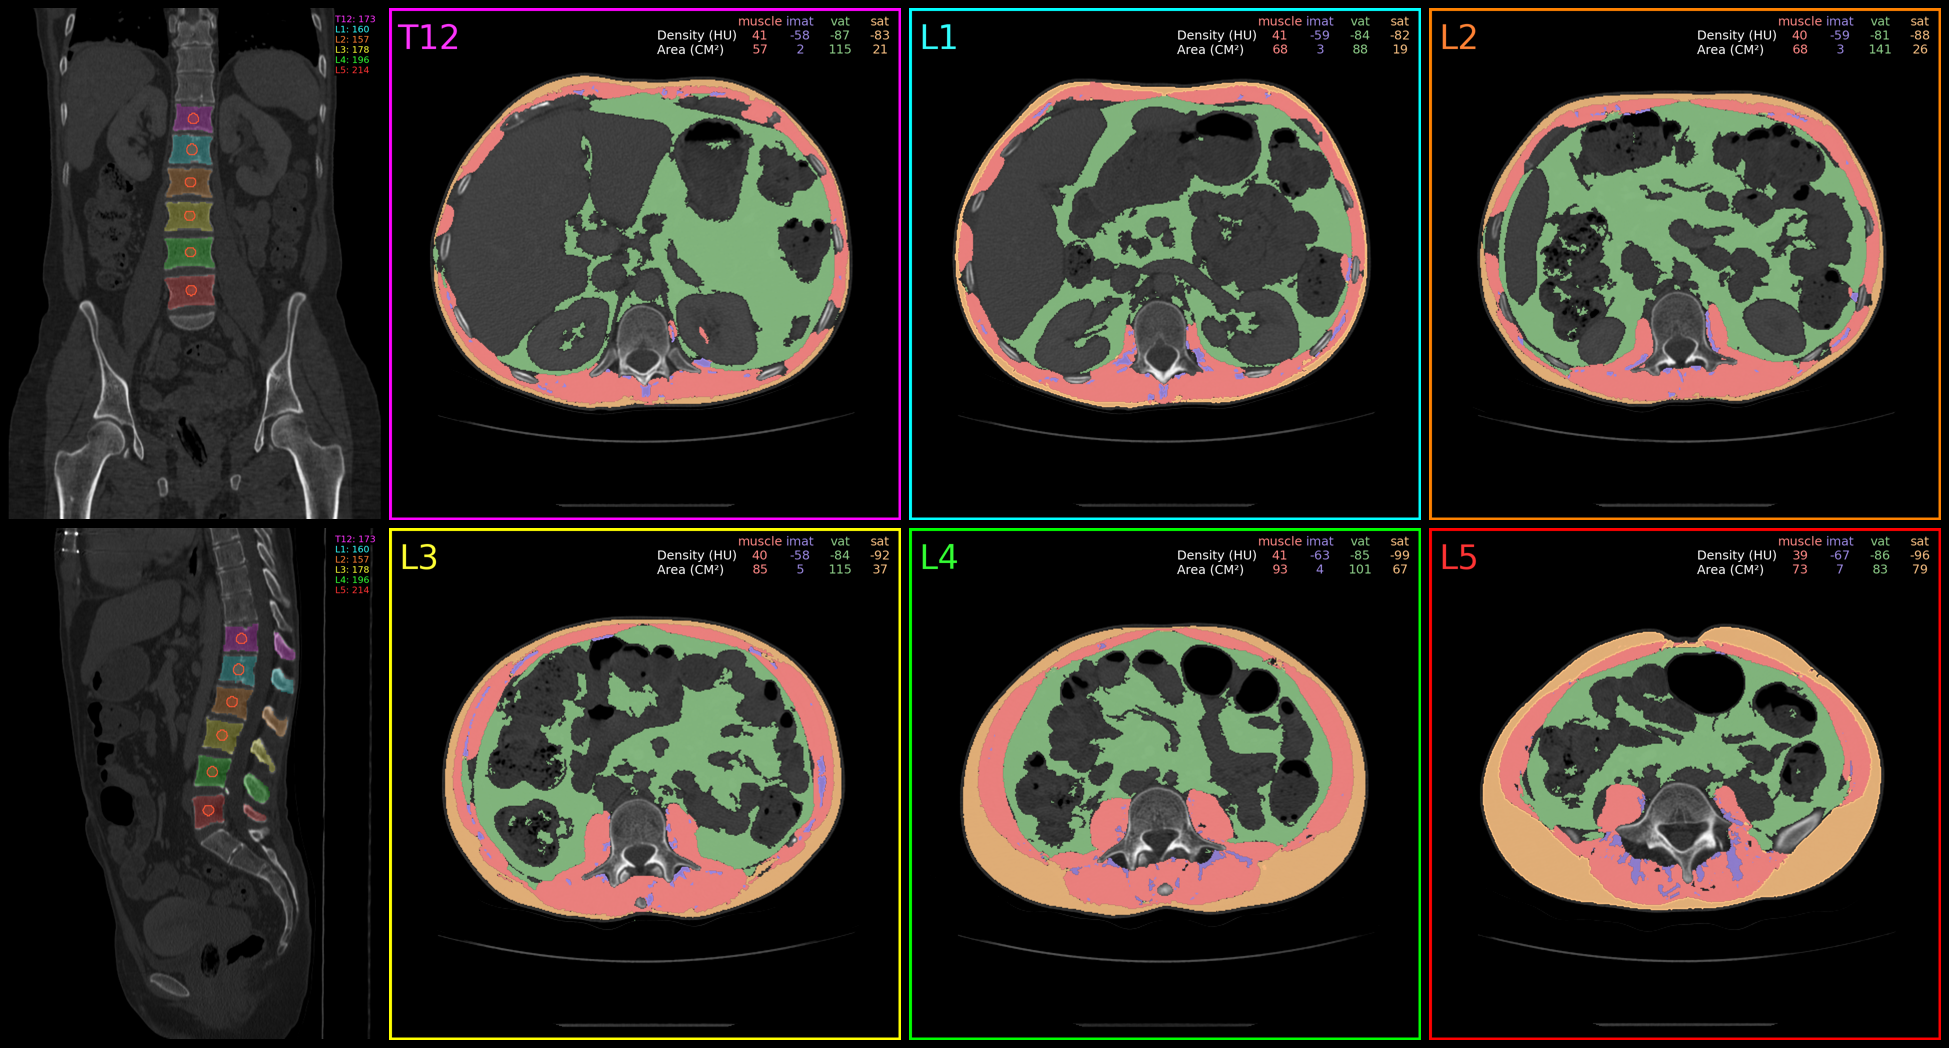
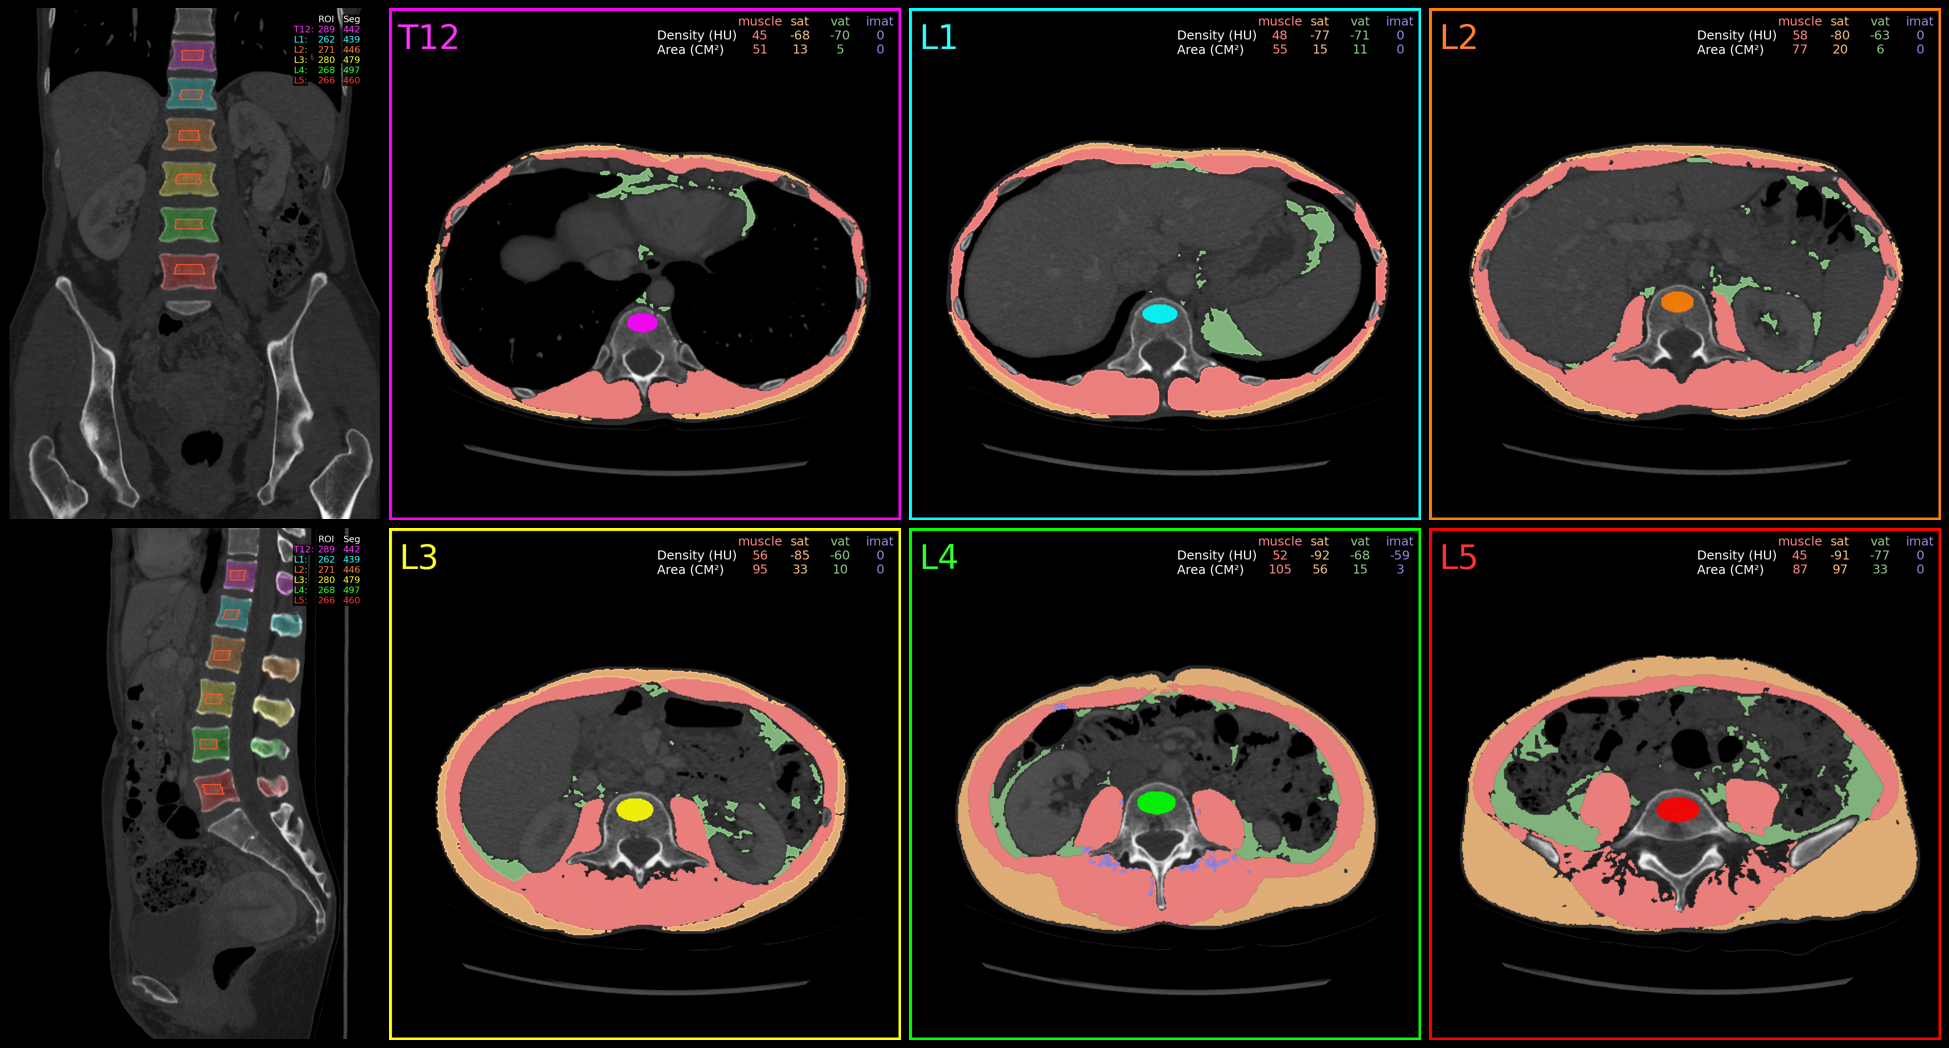
spine roi updates

diff --git a/comp2comp/spine/spine_utils.py b/comp2comp/spine/spine_utils.py
@@ -139,7 +139,7 @@ def compute_center_of_mass(mask: np.ndarray):
 
 # Function that takes a 3d centroid and retruns a binary mask with a 3d
 # roi around the centroid
-def roi_from_mask(img, centroid: np.ndarray):
+def roi_from_mask(img, centroid: np.ndarray, seg: np.ndarray, slice: np.ndarray):
     """Compute a 3D ROI from a 3D mask.
 
     Args:
@@ -173,45 +173,110 @@ def roi_from_mask(img, centroid: np.ndarray):
     ] = 1
     """
     # spherical ROI around centroid
+    spherical = False
     roi = np.zeros(img_np.shape)
-    i_lower = math.floor(centroid[0] - length_i)
-    j_lower = math.floor(centroid[1] - length_j)
-    k_lower = math.floor(centroid[2] - length_k)
-    i_lower_idx = 1000
-    j_lower_idx = 1000
-    k_lower_idx = 1000
-    i_upper_idx = 0
-    j_upper_idx = 0
-    k_upper_idx = 0
-    found_pixels = False
-    for i in range(i_lower, i_lower + 2 * math.ceil(length_i) + 1):
-        for j in range(j_lower, j_lower + 2 * math.ceil(length_j) + 1):
-            for k in range(k_lower, k_lower + 2 * math.ceil(length_k) + 1):
-                if (i - centroid[0]) ** 2 / length_i**2 + (
-                    j - centroid[1]
-                ) ** 2 / length_j**2 + (k - centroid[2]) ** 2 / length_k**2 <= 1:
-                    roi[i, j, k] = 1
-                    if i < i_lower_idx:
-                        i_lower_idx = i
-                    if j < j_lower_idx:
-                        j_lower_idx = j
-                    if k < k_lower_idx:
-                        k_lower_idx = k
-                    if i > i_upper_idx:
-                        i_upper_idx = i
-                    if j > j_upper_idx:
-                        j_upper_idx = j
-                    if k > k_upper_idx:
-                        k_upper_idx = k
-                    found_pixels = True
-    if not found_pixels:
-        print("No pixels in ROI!")
-        raise ValueError
-    print(
-        f"Number of pixels included in i, j, and k directions: {i_upper_idx - i_lower_idx + 1}, "
-        f"{j_upper_idx - j_lower_idx + 1}, {k_upper_idx - k_lower_idx + 1}"
-    )
-    return roi
+
+    if spherical:
+        i_lower = math.floor(centroid[0] - length_i)
+        j_lower = math.floor(centroid[1] - length_j)
+        k_lower = math.floor(centroid[2] - length_k)
+        i_lower_idx = 1000
+        j_lower_idx = 1000
+        k_lower_idx = 1000
+        i_upper_idx = 0
+        j_upper_idx = 0
+        k_upper_idx = 0
+        found_pixels = False
+        for i in range(i_lower, i_lower + 2 * math.ceil(length_i) + 1):
+            for j in range(j_lower, j_lower + 2 * math.ceil(length_j) + 1):
+                for k in range(k_lower, k_lower + 2 * math.ceil(length_k) + 1):
+                    if (i - centroid[0]) ** 2 / length_i**2 + (
+                        j - centroid[1]
+                    ) ** 2 / length_j**2 + (
+                        k - centroid[2]
+                    ) ** 2 / length_k**2 <= 1:
+                        roi[i, j, k] = 1
+                        if i < i_lower_idx:
+                            i_lower_idx = i
+                        if j < j_lower_idx:
+                            j_lower_idx = j
+                        if k < k_lower_idx:
+                            k_lower_idx = k
+                        if i > i_upper_idx:
+                            i_upper_idx = i
+                        if j > j_upper_idx:
+                            j_upper_idx = j
+                        if k > k_upper_idx:
+                            k_upper_idx = k
+                        found_pixels = True
+        if not found_pixels:
+            print("No pixels in ROI!")
+            raise ValueError
+        print(
+            f"Number of pixels included in i, j, and k directions: {i_upper_idx - i_lower_idx + 1}, "
+            f"{j_upper_idx - j_lower_idx + 1}, {k_upper_idx - k_lower_idx + 1}"
+        )
+        return roi
+    else:
+        mask = None
+        inferior_superior_line = seg[int(centroid[0]), int(centroid[1]), :]
+        # get the center point
+        updated_z_center = np.mean(np.where(inferior_superior_line == 1))
+        lower_z_idx = updated_z_center - ((length_k * 1.5) // 2)
+        upper_z_idx = updated_z_center + ((length_k * 1.5) // 2)
+        for idx in range(int(lower_z_idx), int(upper_z_idx) + 1):
+            posterior_anterior_line = slice[:, idx]
+            updated_posterior_anterior_center = np.mean(
+                np.where(posterior_anterior_line == 1)
+            )
+            # take the center to be the 1/4 percentile
+            updated_posterior_anterior_center = (
+                np.min(np.where(posterior_anterior_line == 1))
+                + np.sum(posterior_anterior_line) * 0.58
+            )
+            posterior_anterior_length = (np.sum(posterior_anterior_line) * 0.5) // 2
+            left_right_line = seg[:, int(updated_posterior_anterior_center), idx]
+            updated_left_right_center = np.mean(np.where(left_right_line == 1))
+            left_right_length = (np.sum(left_right_line) * 0.65) // 2
+            # roi_2d = np.zeros((img_np.shape[0], img_np.shape[1]))
+            # roi_2d[
+            #     int(updated_left_right_center - left_right_length) : int(
+            #         updated_left_right_center + left_right_length
+            #     ),
+            #     int(
+            #         updated_posterior_anterior_center
+            #         - (posterior_anterior_length * 0.5)
+            #     ) : int(updated_posterior_anterior_center + posterior_anterior_length),
+            # ] = 1
+
+            roi_2d = np.zeros((img_np.shape[0], img_np.shape[1]))
+            h = updated_left_right_center
+            k = updated_posterior_anterior_center
+
+            # Semi-axes lengths (a, b)
+            a = left_right_length
+            b = posterior_anterior_length
+
+            # Calculate the min and max indices for x and y
+            x_min = int(max(h - a, 0))
+            x_max = int(min(h + a, img_np.shape[0]))
+            y_min = int(max(k - b, 0))
+            y_max = int(min(k + b, img_np.shape[1]))
+
+            # Create an oval ROI within the bounds
+            for x in range(x_min - 2, x_max + 2):
+                for y in range(y_min - 2, y_max + 2):
+                    if ((x - h) / a) ** 2 + ((y - k) / b) ** 2 <= 1:
+                        roi_2d[x, y] = 1
+            roi[:, :, idx] = roi_2d
+            if idx == int(centroid[2]):
+                mask = np.flip(np.flip(np.transpose(roi_2d), axis=0), axis=1)
+            if idx == updated_z_center:
+                updated_mask = np.flip(np.flip(np.transpose(roi_2d), axis=0), axis=1)
+        if mask is None:
+            mask = updated_mask
+
+        return roi, mask
 
 
 # Function that takes a 3d image and a 3d binary mask and returns that average
@@ -267,18 +332,25 @@ def compute_rois(seg, img, spine_model_type):
     spine_hus = {}
     centroids_3d = {}
     segmentation_hus = {}
+    spine_masks = {}
     for i, level in enumerate(slices):
         slice = slices[level]
         center_of_mass = compute_center_of_mass(slice)
         centroid = np.array([centroids[level], center_of_mass[1], center_of_mass[0]])
-        roi = roi_from_mask(img, centroid)
+        roi, mask_2d = roi_from_mask(
+            img,
+            centroid,
+            (seg_np == spine_model_type.categories[level]).astype(int),
+            slice,
+        )
         image_numpy = img.get_fdata()
         spine_hus[level] = mean_img_mask(image_numpy, roi, i)
         rois[level] = roi
         mask = (seg_np == spine_model_type.categories[level]).astype(int)
         segmentation_hus[level] = mean_img_mask(image_numpy, mask, i)
         centroids_3d[level] = centroid
-    return (spine_hus, rois, segmentation_hus, centroids_3d)
+        spine_masks[level] = mask_2d
+    return (spine_hus, rois, segmentation_hus, centroids_3d, spine_masks)
 
 
 def keep_two_largest_connected_components(mask: Dict):

diff --git a/comp2comp/spine/spine.py b/comp2comp/spine/spine.py
@@ -302,7 +302,7 @@ class SpineComputeROIs(InferenceClass):
         # Compute ROIs
         inference_pipeline.spine_model_type = self.spine_model_type
 
-        (spine_hus, rois, segmentation_hus, centroids_3d) = spine_utils.compute_rois(
+        (spine_hus, rois, segmentation_hus, centroids_3d, spine_masks) = spine_utils.compute_rois(
             inference_pipeline.segmentation,
             inference_pipeline.medical_volume,
             self.spine_model_type,
@@ -312,6 +312,7 @@ class SpineComputeROIs(InferenceClass):
         inference_pipeline.segmentation_hus = segmentation_hus
         inference_pipeline.rois = rois
         inference_pipeline.centroids_3d = centroids_3d
+        inference_pipeline.spine_masks = spine_masks
 
         return {}
 
@@ -331,12 +332,12 @@ class SpineMetricsSaver(InferenceClass):
         if not os.path.exists(self.csv_output_dir):
             os.makedirs(self.csv_output_dir, exist_ok=True)
         self.save_results()
-        if hasattr(inference_pipeline, "dicom_ds"):
-            if not os.path.exists(os.path.join(self.output_dir, "dicom_metadata.csv")):
-                io_utils.write_dicom_metadata_to_csv(
-                    inference_pipeline.dicom_ds,
-                    os.path.join(self.output_dir, "dicom_metadata.csv"),
-                )
+        # if hasattr(inference_pipeline, "dicom_ds"):
+        #     if not os.path.exists(os.path.join(self.output_dir, "dicom_metadata.csv")):
+        #         io_utils.write_dicom_metadata_to_csv(
+        #             inference_pipeline.dicom_ds,
+        #             os.path.join(self.output_dir, "dicom_metadata.csv"),
+        #         )
 
         return {}
 

diff --git a/comp2comp/muscle_adipose_tissue/muscle_adipose_tissue_visualization.py b/comp2comp/muscle_adipose_tissue/muscle_adipose_tissue_visualization.py
@@ -48,6 +48,7 @@ class MuscleAdiposeTissueVisualizer(InferenceClass):
             spine = False
         else:
             spine = True
+            self.spine_masks = inference_pipeline.spine_masks
 
         for i, (image, result) in enumerate(zip(images, results)):
             # now, result is a dict with keys for each tissue
@@ -109,6 +110,12 @@ class MuscleAdiposeTissueVisualizer(InferenceClass):
                 position = (30, 15)
             vis.draw_text(
                 text=dicom_file_name, position=position, color=spine_color, font_size=24
+            )
+            vis.draw_binary_mask(
+                self.spine_masks[dicom_file_name],
+                color=spine_color,
+                alpha=0.9,
+                area_threshold=0,
             )
 
         for idx, tissue in enumerate(result.keys()):

diff --git a/README.md b/README.md
@@ -53,6 +53,19 @@ The first argument of the `__call__` function of `InferenceClass` must be the `I
 
 Below are the inference pipelines currently supported by Comp2Comp.
 
+## End-to-End Spine, Muscle, and Adipose Tissue Analysis at T12-L5
+
+### Usage
+```bash
+bin/C2C spine_muscle_adipose_tissue -i <path/to/input/folder>
+```
+- input_path should contain a DICOM series or subfolders that contain DICOM series.
+
+### Example Output Image
+<p align="center">
+  <img src="figures/spine_muscle_adipose_tissue_example.png" height="300">
+</p>
+
 ## Spine Bone Mineral Density from 3D Trabecular Bone Regions at T12-L5
 
 ### Usage
@@ -66,18 +79,27 @@ bin/C2C spine -i <path/to/input/folder>
   <img src="figures/spine_example.png" height="300">
 </p>
 
-## End-to-End Spine, Muscle, and Adipose Tissue Analysis at T12-L5
+## Abdominal Aortic Calcification Segmentation
 
 ### Usage
 ```bash
-bin/C2C spine_muscle_adipose_tissue -i <path/to/input/folder>
+bin/C2C aortic_calcium -i <path/to/input/folder>
 ```
 - input_path should contain a DICOM series or subfolders that contain DICOM series.
 
-### Example Output Image
-<p align="center">
-  <img src="figures/spine_muscle_adipose_tissue_example.png" height="300">
-</p>
+### Example Output
+```
+Statistics on aortic calcifications:
+Total number:            7
+Total volume (cm³):      0.348
+Mean HU:                 570.3+/-85.8
+Median HU:               544.2+/-85.3
+Max HU:                  981.7+/-266.4
+Mean volume (cm³):       0.005+/-0.059
+Median volume (cm³):     0.022
+Max volume (cm³):        0.184
+Min volume (cm³):        0.005
+```
 
 ## AAA Segmentation and Maximum Diameter Measurement
 
@@ -126,48 +148,6 @@ bin/C2C liver_spleen_pancreas -i <path/to/input/folder>
   <img src="figures/liver_spleen_pancreas_example.png" height="300">
 </p>
 
-## 3D Analysis of the Femur
-
-### Usage
-```bash
-bin/C2C hip -i <path/to/input/folder>
-```
-- input_path should contain a DICOM series or subfolders that contain DICOM series.
-
-### Example Output Image
-<p align="center">
-  <img src="figures/hip_example.png" height="300">
-</p>
-
-## Abdominal Aortic Calcification Segmentation
-
-### Usage
-```bash
-bin/C2C aortic_calcium -i <path/to/input/folder>
-```
-- input_path should contain a DICOM series or subfolders that contain DICOM series.
-
-### Example Output
-```
-Statistics on aortic calcifications:
-Total number:            7
-Total volume (cm³):      0.348
-Mean HU:                 570.3+/-85.8
-Median HU:               544.2+/-85.3
-Max HU:                  981.7+/-266.4
-Mean volume (cm³):       0.005+/-0.059
-Median volume (cm³):     0.022
-Max volume (cm³):        0.184
-Min volume (cm³):        0.005
-```
-
-## Pipeline that runs all currently implemented pipelines
-
-### Usage
-```bash
-bin/C2C all -i <path/to/input/folder>
-```
-- input_path should contain a DICOM series or subfolders that contain DICOM series.
 
 ## Contribute
 <a name="contribute"></a>
